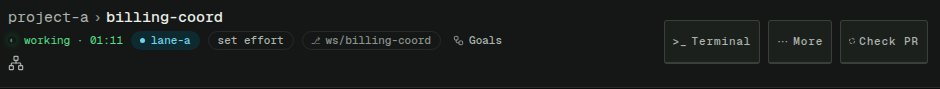
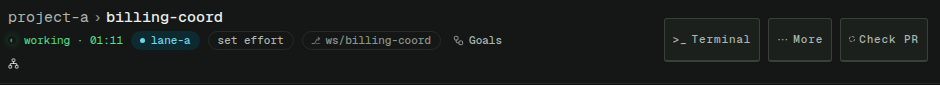
fix(pwa): the header's role badge is the Goals glyph's size on the word's line, and review 2905's other findings (desktop polish C50 fix round)
The session header's role detail gets its own class: the glyph is 1em of --fs-meta, the Goals door's size, on
the line the word took, in the ink the word had, so the header is the height it was in both skins. The
programme kicker's icon is the same RoleBadge with a hover title. The long-branch pin is a literal again with a
second spelt-out case, the stylesheet reader matches a whole selector and property, the badge pair has its rows in
contrast.test.ts (the file's other claimant consented), and the older-server comparison counts the badges per view.
Real-Chrome cases pin the header's size, line and height. The plan section, the task note and the eight header
screenshots follow the tip.

Ledger-Edit: D-8817 defines its deviation in the plan's Task C50 section; this round corrects that section and changes tests, one stylesheet and the note

diff --git a/pwa/browser/role-fact.browser.test.ts b/pwa/browser/role-fact.browser.test.ts
@@ -11,6 +11,7 @@ import { INSTRUMENT, PHOSPHOR, REFINED } from '@ccrc/ui';
 import { resolveChrome } from './harness';
 import { GROUP_MODE_KEY } from '../src/skins/instrument/FleetTable';
 import { openApp, serveDist, sharedDist, type AppFixture, type AppView, type DistServer } from './app';
+import { withRunBinding } from '../test/runBindingFixture';
 
 const THEMES = [PHOSPHOR, 'light'] as const;
 const WIDTHS = [360, 390, 1280, 1470, 1920] as const;
@@ -160,6 +161,110 @@ describe('D-8142, D-8817: the card wears the coordinator badge', () => {
         expect(errors).toEqual([]);
       } finally {
         await close();
+      }
+    });
+  }
+});
+
+// D-8817, review 2905 F1: in the session header the badge is the line's own glyph size and sits where the Goals door's glyph
+// sits, and it adds nothing to the header's height. A coordinator that holds a programme's run, so its header draws the
+// Goals door, is opened at each width in each skin and theme.
+const HEAD_NOW = Date.now();
+const headRow = (id: string, extra: object = {}): object => ({
+  ...row(id, extra), id: `${PROJECT}-${id}`, statusUpdatedAt: HEAD_NOW - 60_000, bucketSince: HEAD_NOW - 60_000, started: true,
+});
+const HEAD_RUN = {
+  id: 301, program: 'billing', programTitle: 'Billing rework', wave: 3, waveOf: 6, project: PROJECT, homeProject: PROJECT,
+  sessionId: `${PROJECT}-head-w1`, workspace: 'head-w1', branch: 'ws/head-w1', state: 'working', kind: 'work', reviews: null,
+  claimedBy: `${PROJECT}-head-coord`, resumed: false, clearedAt: null, openedAt: HEAD_NOW - 3_600_000, dispatchStartedAt: null,
+  dispatchedAt: HEAD_NOW - 3_000_000, closedAt: null, handoffCommit: null, items: { done: 0, total: 0 }, unreadMail: 0,
+  health: { mailOutstanding: 0, mailParked: 0, mailReplayMax: 0, doneRejects: 0, lastRejectCode: null, briefQueued: false,
+    clearError: null, coordKickoffPendingSince: null },
+  childReclaim: null, reviewCap: null, hadChild: false,
+};
+// The coordinator is a workspace session, as the fleet's coordinators are, so Instrument's header draws the role detail on a line of its own.
+const HEAD_SESSIONS = [headRow('head-coord', { ctxPct: 40 }), headRow('head-w1', { role: 'child' })];
+const HEAD_FIXTURE: AppFixture = {
+  api: {
+    '/api/accounts': { accounts: [], projected: null, roster: ROSTER },
+    '/api/projects': { roots: ['/w'], projects: [{ name: PROJECT, workdir: `/w/${PROJECT}` }] },
+    '/api/runs': [HEAD_RUN], '/api/claims': [],
+  },
+  fleetFrames: [{ type: 'fleet', sessions: withRunBinding(HEAD_SESSIONS as never[], [HEAD_RUN] as never[]) }, { type: 'runs', runs: [HEAD_RUN] }],
+};
+
+interface HeadMeasure {
+  readonly badge: { readonly w: number; readonly h: number; readonly cy: number; readonly fontPx: number; readonly cls: string; readonly text: string } | null;
+  readonly goals: { readonly w: number; readonly h: number; readonly cy: number; readonly top: number; readonly bottom: number } | null;
+  readonly box: { readonly cy: number; readonly top: number; readonly bottom: number } | null;
+  readonly headH: number;
+  /** The header's height with the word in the badge's place, as `main` drew it: a plain `.chat-fact` holding `coordinator`. */
+  readonly headHWord: number;
+}
+
+async function measureHead(page: Page): Promise<HeadMeasure> {
+  return page.evaluate(() => {
+    const head = document.querySelector<HTMLElement>('.chat-head')!;
+    const role = head.querySelector<HTMLElement>('.chat-fact-role');
+    const badgeEl = role?.querySelector<HTMLElement>('[role="img"][aria-label="coordinator"]') ?? null;
+    const bsvg = badgeEl?.querySelector('svg')?.getBoundingClientRect();
+    const gsvg = head.querySelector('.chat-coord-goals svg')?.getBoundingClientRect();
+    const rr = role?.getBoundingClientRect();
+    // Everything of the badge and the Goals glyph is read BEFORE the probe below swaps the badge's markup.
+    const badge = badgeEl === null || bsvg === undefined ? null
+      : { w: bsvg.width, h: bsvg.height, cy: bsvg.top + bsvg.height / 2, fontPx: parseFloat(getComputedStyle(badgeEl).fontSize), cls: badgeEl.className, text: badgeEl.textContent ?? '' };
+    const headH = head.getBoundingClientRect().height;
+    let headHWord = headH;
+    if (role !== null) {
+      // The word where the badge is, in the markup `main` drew it in (a plain `.chat-fact`), measured, then put back.
+      const saved = role.innerHTML;
+      role.classList.remove('chat-fact-role');
+      role.innerHTML = 'coordinator';
+      headHWord = head.getBoundingClientRect().height;
+      role.innerHTML = saved;
+      role.classList.add('chat-fact-role');
+    }
+    return {
+      badge,
+      goals: gsvg === undefined ? null : { w: gsvg.width, h: gsvg.height, cy: gsvg.top + gsvg.height / 2, top: gsvg.top, bottom: gsvg.bottom },
+      box: rr === undefined ? null : { cy: rr.top + rr.height / 2, top: rr.top, bottom: rr.bottom },
+      headH, headHWord,
+    };
+  });
+}
+
+describe('D-8817: the header\'s role badge is the line\'s glyph, in place', () => {
+  for (const { skin, theme, width } of MODES.flatMap(({ skin }) => skin === REFINED || skin === INSTRUMENT ? [{ skin }] : [])
+    .filter((m, i, all) => all.findIndex((x) => x.skin === m.skin) === i)
+    .flatMap(({ skin }) => THEMES.flatMap((theme) => [360, 1280].map((width) => ({ skin, theme, width }))))) {
+    it(`${skin}, ${theme}, ${width}px: 1em like the Goals glyph, on its centre line, and no height added`, async () => {
+      const { ctx, page, errors } = await openApp(browser!, { skin, theme, width } as AppView, HEAD_FIXTURE);
+      try {
+        await page.goto(server!.origin + `/s/${PROJECT}-head-coord`);
+        await page.waitForSelector('.chat-head', { timeout: 20_000 });
+        await page.evaluate(async () => { await document.fonts.ready; });
+        const toggle = page.getByRole('button', { name: /details/i });
+        if (await toggle.count() > 0 && (await toggle.first().getAttribute('aria-expanded')) === 'false') await toggle.first().click();
+        await page.waitForSelector('.chat-fact-role', { timeout: 10_000 });
+        await page.waitForTimeout(300);
+        const m = await measureHead(page);
+        expect(m.badge, 'the header draws the badge').not.toBeNull();
+        expect(m.badge!.text, 'no visible word').toBe('');
+        expect(m.badge!.cls, 'the card\'s role rule is not on the header badge').not.toContain('sess-role');
+        expect(m.badge!.w, 'the glyph is 1em wide').toBeCloseTo(m.badge!.fontPx, 0);
+        expect(m.badge!.h, 'the glyph is 1em tall').toBeCloseTo(m.badge!.fontPx, 0);
+        // The Goals door is drawn in every Refined header and in Instrument's desk header; Instrument's phone header has none,
+        // and there the badge is measured against its own line only.
+        if (skin === REFINED || width >= 900) expect(m.goals, 'the Goals door is drawn in this header').not.toBeNull();
+        if (m.goals !== null) expect(m.badge!.w, 'the same size as the Goals door\'s glyph').toBeCloseTo(m.goals.w, 0);
+        // On its neighbour's centre line when they share a row (the box overlaps the Goals glyph's rows), else centred in its own box.
+        const sharesRow = m.goals !== null && m.box !== null && m.goals.top < m.box.bottom && m.goals.bottom > m.box.top;
+        if (sharesRow) expect(Math.abs(m.badge!.cy - m.goals!.cy), 'on the Goals glyph\'s centre line').toBeLessThanOrEqual(2);
+        else expect(Math.abs(m.badge!.cy - m.box!.cy), 'centred in its own line box').toBeLessThanOrEqual(1);
+        expect(Math.abs(m.headH - m.headHWord), 'the header is the height it was with the word in the badge\'s place').toBeLessThanOrEqual(0.5);
+        expect(errors).toEqual([]);
+      } finally {
+        await ctx.close();
       }
     });
   }

diff --git a/pwa/test/coordinator-badge.test.tsx b/pwa/test/coordinator-badge.test.tsx
@@ -72,6 +72,7 @@ describe('the programme box header (note 1)', () => {
     const kicker = drawBox().querySelector('.pg-kicker')!;
     const img = kicker.querySelector('.pg-ico[role="img"]');
     expect(img?.getAttribute('aria-label')).toBe('Programme');
+    expect(img?.getAttribute('title'), 'a mouse user still gets the word on hover').toBe('Programme');
     // The programme page's kicker has no icon beside it, so it stays the page's one cue.
     expect(readFileSync(path.join(__dirname, '../src/ledgers/ProgrammeScreen.tsx'), 'utf8')).toContain('<span className="pv-kicker">Programme</span>');
   });
@@ -123,24 +124,55 @@ describe('the coordinator badge (note 2)', () => {
   });
 });
 
-describe('the badge colour (note 2, the contrast gates)', () => {
-  const read = (f: string): string => readFileSync(path.join(__dirname, '../src/fleet', f), 'utf8');
-  /** The `color` a rule of exactly this selector declares, read by its text, so no selector is turned into a pattern. */
-  const decl = (css: string, selector: string): string | null => {
-    const at = css.indexOf(`${selector} {`);
-    if (at < 0) return null;
-    const body = css.slice(at + selector.length + 2, css.indexOf('}', at));
-    return /color:\s*([^;]+);/.exec(body)?.[1] ?? null;
+describe('the badge stylesheet rules (note 2; the contrast gates measure the pair in contrast.test.ts)', () => {
+  const read = (...f: string[]): string => readFileSync(path.join(__dirname, '../src', ...f), 'utf8');
+  /** Every value the stylesheet gives `prop` for a rule whose selector list holds exactly `selector`: comments are cut first,
+   *  a rule is read whole, a selector is compared whole (never as a substring of a longer one) and a property by its own name
+   *  (never `background-color` for `color`), so no selector becomes a pattern. */
+  const values = (css: string, selector: string, prop: string): string[] => {
+    const out: string[] = [];
+    for (const m of css.replace(/\/\*[\s\S]*?\*\//g, '').matchAll(/([^{}]+)\{([^{}]*)\}/g)) {
+      if (!m[1]!.split(',').some((sel) => sel.trim() === selector)) continue;
+      for (const decl of m[2]!.split(';')) {
+        const at = decl.indexOf(':');
+        if (at > 0 && decl.slice(0, at).trim() === prop) out.push(decl.slice(at + 1).trim());
+      }
+    }
+    return out;
   };
 
+  it('the reader reads a whole selector and a whole property (its own controls)', () => {
+    const css = '/* .a .b { color: red; } */ .x .a .b { color: blue; } .a .b, .c { background-color: green; color: gold; }';
+    expect(values(css, '.a .b', 'color')).toEqual(['gold']);
+    expect(values(css, '.x .a .b', 'color')).toEqual(['blue']);
+    expect(values(css, '.a .b', 'background-color')).toEqual(['green']);
+    expect(values(css, '.c', 'color')).toEqual(['gold']);
+    expect(values(css, '.missing', 'color')).toEqual([]);
+  });
+
   it('is the quiet secondary ink outside a programme box, a gated token the row gate measures', () => {
-    const css = read('fleet.css');
-    expect(/\.sess-role\s*\{[^}]*color:\s*var\(--ink-secondary\);/.test(css)).toBe(true);
+    expect(values(read('fleet', 'fleet.css'), '.sess-role', 'color')).toEqual(['var(--ink-secondary)']);
   });
 
   for (const hue of ['cyan', 'violet', 'magenta', 'blue']) {
     it(`is the ${hue} programme's hue inside its box, on the surface the gates measure the hue on`, () => {
-      expect(decl(read('programmeBox.css'), `.pg-box[data-hue='${hue}'] .pg-coord .sess-role`)).toBe(`var(--prog-${hue})`);
+      expect(values(read('fleet', 'programmeBox.css'), `.pg-box[data-hue='${hue}'] .pg-coord .sess-role`, 'color')).toEqual([`var(--prog-${hue})`]);
     });
   }
+
+  it('the header badge is the line\'s glyph size, 1em as the Goals door\'s glyph is, and the card\'s role rule does not reach it', () => {
+    const chat = read('session', 'chat.css');
+    expect(values(chat, '.chat-fact-role svg', 'width')).toEqual(['1em']);
+    expect(values(chat, '.chat-fact-role svg', 'height')).toEqual(['1em']);
+    expect(values(chat, '.chat-coord-goals svg', 'width')).toEqual(['1em']);
+    expect(values(chat, '.chat-fact-role [role="img"]', 'font-size')).toEqual(['var(--fs-meta)']);
+    expect(values(chat, '.chat-fact-role', 'min-height'), 'the detail keeps the line the word took').toEqual(['1lh']);
+    const session = lead();
+    render(<SessionHeaderHost {...headerProps({ session, status: session.status, facts: sessionFacts({ session, now: NOW }) })} />);
+    const toggle = screen.queryByRole('button', { name: /details/i });
+    if (toggle !== null && toggle.getAttribute('aria-expanded') === 'false') fireEvent.click(toggle);
+    const badge = document.querySelector('.chat-head .chat-fact-role [role="img"][aria-label="coordinator"]');
+    expect(badge, 'the details draw the badge in the role detail').not.toBeNull();
+    expect(badge!.classList.contains('sess-role'), 'the card\'s role rule (flex-start, the quiet ink) is not on the header badge').toBe(false);
+  });
 });

diff --git a/pwa/test/card-header-facts.test.tsx b/pwa/test/card-header-facts.test.tsx
@@ -154,18 +154,29 @@ describe('the model (D-5545)', () => {
     expect(cardFacts(sessionFacts({ session: s({ role: null as never }), now: NOW })).role).toBeNull();
   });
 
-  it('a coordinator with a long branch keeps both whole on the card (D-8142)', () => {
+  it('a coordinator with a long branch keeps both whole on the card (D-8142, D-8817)', () => {
     const branch = 'feat/a-long-descriptive-branch-name-for-the-sidebar';
     const f = sessionFacts({ session: s({ workspace: 'bright-lake', name: 'bright-lake', role: 'coordinator', branch }), now: NOW });
     const c = cardFacts(f);
     expect(c.role?.text).toBe('coordinator');
-    // D-8817: the role cell is the badge's width (`ROLE_CELL_CHARS`), no longer the word's, so the branch keeps more.
-    expect(c.context).toMatchObject({ key: 'branch', text: branch, short: shortenByToken(branch, NAME_BUDGET - ROLE_CELL_CHARS) });
+    // As at main, the shortened branch spelt out; the budget is the badge's cell (`ROLE_CELL_CHARS`), no longer the word's.
+    expect(c.context).toMatchObject({ key: 'branch', text: branch, short: 'feat/a-long…' });
     expect(c.context!.short!.length + ROLE_CELL_CHARS).toBeLessThanOrEqual(NAME_BUDGET);
-    expect(ROLE_CELL_CHARS, 'a smaller cell than the word and its separator took').toBeLessThan(COORDINATOR_WORD.length + ' · '.length);
     // A child, and a coordinator with no role cell to make room for, keep the full budget.
     const kid = cardFacts(sessionFacts({ session: s({ workspace: 'bright-lake', name: 'bright-lake', role: 'child', branch }), now: NOW }));
     expect(kid.context?.short).toBe(shortenByToken(branch, NAME_BUDGET));
+  });
+
+  it('the role cell is the badge\'s width: a branch the word\'s 14 characters cut shorter is kept longer beside the badge (D-8817)', () => {
+    // At main (budget 28 - 14 = 14) this branch shortened to `feat/garden…`; at the badge's cell (28 - 6 = 22) it keeps
+    // another token, and the child's full budget (28) keeps one more still. Each is spelt out, so a wrong cell width reds here.
+    const branch = 'feat/garden-stone-silver-harbor-morning-cedars-quiet-river-run';
+    const lead = cardFacts(sessionFacts({ session: s({ workspace: 'bright-lake', name: 'bright-lake', role: 'coordinator', branch }), now: NOW }));
+    expect(lead.context).toMatchObject({ key: 'branch', short: 'feat/garden-stone…' });
+    expect(lead.context!.short!.length + ROLE_CELL_CHARS).toBeLessThanOrEqual(NAME_BUDGET);
+    const kid = cardFacts(sessionFacts({ session: s({ workspace: 'bright-lake', name: 'bright-lake', role: 'child', branch }), now: NOW }));
+    expect(kid.context?.short).toBe('feat/garden-stone-silver…');
+    expect(lead.context!.short).not.toBe(kid.context!.short);
   });
 
   it('a child names its programme and wave on the card; the header keeps the verbatim hold and the coordinator', () => {

diff --git a/pwa/test/older-server-render.test.tsx b/pwa/test/older-server-render.test.tsx
@@ -45,7 +45,7 @@ const ROLE_ONLY_LINE = new RegExp(`<span class="sess-meta sess-meta--context">${
 /** The programme box's kicker (D-8817): the base drew the icon bare with the class `pg-ico`, then the word "Programme" and a
  *  middot; the head draws the icon inside an image named "Programme" and neither the word nor the middot. Both sides are
  *  brought to one shape: the head's wrapper is unwrapped, the base's word, middot and icon class are removed. */
-const PROGRAMME_ICON = /<span class="pg-ico" role="img" aria-label="Programme">(<svg[\s\S]*?<\/svg>)<\/span>/g;
+const PROGRAMME_ICON = /<span role="img" aria-label="Programme" title="Programme" class="[^"]*\bpg-ico\b[^"]*">(<svg[\s\S]*?<\/svg>)<\/span>/g;
 const BASE_PROGRAMME_WORD = '<span class="pg-word">Programme</span><span class="pg-sep" aria-hidden="true">·</span>';
 const BASE_KICKER_ICON = 'class="block flex-none pg-ico"';
 /** The programme box's title door (PL10, D26 amended), round the title span the base drew. */
@@ -97,6 +97,13 @@ describe('an older server: no delegation frame, the base\'s fleet (delegation br
       const old = html.split(MARKED).join(LIST).split(BACKUP_SLOT).join('').replace(TITLE_DOOR, '$1').replace(PROJECTS_HEAD, '')
         .replace(FACE_MARK, '').replace(FACE_GROUP, '$1');
       expect(baseline.views[view].match(ROLE_CELL), `${view}: the base drew no role cell`).toBeNull();
+      // The badge is stripped below as a declared head-only addition, so it is counted FIRST: the world has two coordinators
+      // (`coord`, `coord-e`) and each view draws exactly two badges, each on one of their rows, so a badge drawn on a worker's
+      // row, or on a row with no `role`, turns this red instead of being stripped with the rest.
+      expect((html.match(ROLE_CELL) ?? []).length, `${view}: one role badge per coordinator row, none elsewhere`).toBe(2);
+      const badged = html.split('<div class="sess-line"').filter((row) => new RegExp(ROLE_CELL.source).test(row))
+        .map((row) => /aria-label="([^"]*)"><span aria-hidden="true">/.exec(row.slice(row.indexOf('sess-label')))?.[1]);
+      expect(badged.sort(), `${view}: the badged rows are the coordinators`).toEqual(['coord', 'coord-e']);
       expect(old, `${view}: no other delegation attribute`).not.toContain('data-delegation');
       for (const word of ['inferred', 'Unowned work', 'Offline coordinator', 'delegated']) {
         expect(html, `${view}: no "${word}"`).not.toContain(word);

diff --git a/pwa/test/role-census.test.ts b/pwa/test/role-census.test.ts
@@ -168,12 +168,12 @@ const NOT_ROLE_BEARING: Readonly<Record<string, string>> = {
   'confirm.tsx': "QuickConfirm's consequence is a sentence of copy, not a control's label; its buttons are Button",
   'control-row.tsx': 'a self-grounded mono status line whose shape the shape census owns; outside Task 14\'s mapping',
   'count-badge.tsx': 'a count on the 11px floor, sized against the glyph it badges',
-  'role-badge.tsx': 'a 16px icon with an accessible name and no text; its size is the icon\'s own, so no type or row role applies (desktop polish C50)',
   'cover-screen.tsx': 'a full-viewport cover: it sets no type and no row height of its own',
   'icon.tsx': 'sized by its caller in em or by prop, so it follows the type around it',
   'limit-bar.tsx': 'draws through Meter; its label is on the 11px floor, below every Refined role',
   'meter.tsx': "its height is the meter's own token, --meter-h, which skins.css already varies",
   'popover.tsx': 'a panel around content its caller passes in: it sets no type and no row height of its own (D-5934)',
+  'role-badge.tsx': 'a 16px icon with an accessible name and no text; its size is the icon\'s own, so no type or row role applies (desktop polish C50)',
   'skeleton.tsx': 'a placeholder sized by its caller',
   'status-dot.tsx': 'a lamp: part of the identity core, fixed across skins',
   'text-link.tsx': 'an inline link inside a sentence: it inherits the type and colour of the text around it, and has no tap floor (the WCAG 2.5.8 in-text exemption)',
@@ -284,6 +284,7 @@ const APP_ROLE_RULES: Readonly<Record<string, Readonly<Record<string, TypeRole>>
   },
   'chat.css': {
     '.chat-coord': META,
+    '.chat-fact-role [role="img"]': META, // the header's role badge: the Goals glyph's size (desktop polish C50)
     '.metachip-glyph': META,
     '.pr-lede': UI,
     '.pr-facts': META,

diff --git a/pwa/src/session/SessionDetails.tsx b/pwa/src/session/SessionDetails.tsx
@@ -29,8 +29,8 @@ import { coordinationLine, type Coordination } from '../fleet/fleetTree';
 import { coordinationClauses } from './sessionHeaderView';
 
 /** A plain detail — one fact in words, its tooltip when it has one. */
-function Detail({ children, title }: { children: ReactNode; title?: string }): ReactNode {
-  return <span className="chat-fact" title={title}>{children}</span>;
+function Detail({ children, title, className }: { children: ReactNode; title?: string; className?: string }): ReactNode {
+  return <span className={className === undefined ? 'chat-fact' : `chat-fact ${className}`} title={title}>{children}</span>;
 }
 
 /** One clause of the coordination row that opens somewhere — the run board, or the coordinator's session. */
@@ -144,7 +144,7 @@ export function SessionDetails({ facts, coordination }: {
       {/* A main checkout's heading is its project; the name the card leads with is here. */}
       {s.workspace === null && s.name !== null && <Detail title="this session's name">{s.name}</Detail>}
       {runId !== null && <Detail title="the run this wave belongs to — the run board names it">{`run #${runId}`}</Detail>}
-      {facts.coordinatorRole && <Detail><RoleBadge {...COORDINATOR_BADGE} className="sess-role" /></Detail>}
+      {facts.coordinatorRole && <Detail className="chat-fact-role"><RoleBadge {...COORDINATOR_BADGE} /></Detail>}
       {s.held !== null && ctx?.key === 'programme' && <Detail title="the hold, verbatim">{heldWords(s.held)}</Detail>}
       {s.pr?.number != null && <Detail>{`PR #${s.pr.number}`}</Detail>}
       {facts.lane.away && facts.offPool === null && facts.lane.label !== undefined && <Detail>{facts.lane.label}</Detail>}

diff --git a/pwa/src/fleet/sessionFacts.ts b/pwa/src/fleet/sessionFacts.ts
@@ -253,12 +253,14 @@ export const COORDINATOR_ROLE_TITLE = 'this session is its project\'s coordinato
  *  hover title `RoleBadge` (`@ccrc/ui`) draws, which the card's role cell and the header's role detail both spread. */
 export const COORDINATOR_BADGE = { icon: 'network', label: COORDINATOR_WORD, title: COORDINATOR_ROLE_TITLE } as const;
 
-/** THE role fact: the card's (D-8142) and the header's one object, so the name and its title have one home. */
+/** The role fact: the card's (D-8142) and the header's one object. It is the name and title the badge carries (the same two
+ *  constants as `COORDINATOR_BADGE`), as a `Fact`, for the one place that asks whether a card has a role cell. */
 const ROLE_FACT: Fact = { key: 'role', text: COORDINATOR_WORD, title: COORDINATOR_ROLE_TITLE };
 
 /** The width the card's role cell takes on the context line, in characters of the meta line's mono face (D-8142, D-8817):
- *  the badge's 16px icon, about three characters at `--fs-2xs`, and its middot separator. A branch beside it shortens to
- *  `NAME_BUDGET` less this, so the one line holds both whole. */
+ *  the badge's 16px icon, 2.2 characters at the meta line's `--fs-xs` (12px), rounded up to 3, and its middot separator. A
+ *  branch beside it shortens to `NAME_BUDGET` less this, so the one line holds both whole. The cell was 11 characters and
+ *  the separator (14) when it drew the word. */
 export const ROLE_CELL_CHARS = 3 + ' · '.length;
 
 /** D-8771: the words `backgroundWords` puts after its count (`in background`), TAKEN FROM ITS OWN OUTPUT, so the words are

diff --git a/pwa/src/fleet/ProgrammeBox.tsx b/pwa/src/fleet/ProgrammeBox.tsx
@@ -21,7 +21,7 @@
 // memo (C9, D-6441) holds: the card never re-renders for the time.
 import { Fragment } from 'react';
 import type { ReactNode } from 'react';
-import { BareRow, Door, Icon, TextLink, useNow } from '@ccrc/ui';
+import { BareRow, Door, RoleBadge, TextLink, useNow } from '@ccrc/ui';
 import type { RunSummary } from '../../../shared/api';
 import { SpecLink } from '../ledgers/GoalsPanel';
 import { programmeSpecHref } from '../ledgers/ledgerLinks';
@@ -125,8 +125,9 @@ export function ProgrammeBox({ view, state, tray, drawRow, drawAbroad, hueOf, on
   return (
     <section className="pg-box" data-hue={view.lead.hue} data-state={state}>
       <div className="pg-kicker" data-hue={view.lead.hue}>
-        {/* D-8817: the icon, the hue and the waves bar say programme, so the word is not drawn; the icon keeps its name. */}
-        <span className="pg-ico" role="img" aria-label="Programme"><Icon name="workflow" /></span>
+        {/* D-8817: the icon, the hue and the waves bar say programme, so the word is not drawn; the icon keeps its name and a
+            hover title (the badge primitive the coordinator's mark uses, so a mouse user still gets the word on hover). */}
+        <RoleBadge icon="workflow" label="Programme" title="Programme" className="pg-ico" />
         <Title slug={view.lead.slug} title={view.lead.title} />
         <WaitingChip slug={view.lead.slug} title={view.lead.title} />
         <BoxSpec slug={view.lead.slug} title={view.lead.title} />

diff --git a/pwa/src/session/chat.css b/pwa/src/session/chat.css
@@ -107,6 +107,14 @@
   .chat-facts .sess-subagents { min-height: var(--tap-min); min-width: var(--tap-min); }
 }
 .chat-fact { font-family: var(--family-mono); overflow-wrap: break-word; min-width: 0; }
+/* D-8817: the role badge in the details, where the word was drawn in this row's inherited ink. The glyph is the Goals door's size:
+   `1em` of `--fs-meta`, as that door's glyph is (`.chat-coord-goals svg`, below; its `Door` glyph span is `text-meta`). The role
+   detail keeps the line the word took (`min-height: 1lh` of its own inherited line), so the header is the height it was with the
+   word, in both skins, and the glyph is centred on that line. The card's `.sess-role` rule (`align-self: flex-start`, the quiet
+   ink) is not on it. */
+.chat-fact-role { display: flex; align-items: center; min-height: 1lh; }
+.chat-fact-role [role="img"] { font-size: var(--fs-meta); }
+.chat-fact-role svg { width: 1em; height: 1em; }
 .chat-facts .sess-subagent-list { flex-basis: 100%; }
 /* The header's list of recorded entries: a full-width flex item of .chat-facts, whose automatic minimum would be its
    min-content width. Its rows' words are white-space: nowrap (.proj-work-parts), so without min-width: 0 one long

diff --git a/pwa/test/contrast.test.ts b/pwa/test/contrast.test.ts
@@ -2318,12 +2318,14 @@ describe('the programme box\'s hues (Task G2)', () => {
     }
   });
 
-  it('measures the kicker on the tint and the workers\' slugs on the surface, through the stylesheet, in every palette', () => {
+  it('measures the kicker on the tint, the workers\' slugs and the coordinator\'s badge on the surface, through the stylesheet, in every palette', () => {
     for (const h of PROG_HUES) {
       for (const [key, pair] of [
         [`.pg-kicker [as .pg-kicker[data-hue='${h}']]`, 'var(--pg) on var(--pg-tint)'],
         [`.pg-tray [data-hue='${h}'] .sess-pw-prog [in .pg-tray]`, `var(--prog-${h}) on var(--bg-surface)`],
         [`.pg-elsewhere [data-hue='${h}'] .sess-pw-prog [in .pg-elsewhere]`, `var(--prog-${h}) on var(--bg-surface)`],
+        // D-8817: the coordinator's badge in its programme's hue, on the coordinator band's ground, the card's surface.
+        [`.pg-box[data-hue='${h}'] .pg-coord .sess-role [in .pg-coord]`, `var(--prog-${h}) on var(--bg-surface)`],
       ] as const) {
         const rows = rowsFor(key);
         expect(rows, key).toHaveLength(THEME_COUNT);

diff --git a/pwa/test/session-line.test.tsx b/pwa/test/session-line.test.tsx
@@ -1493,8 +1493,9 @@ describe('whose code a row works on (D-5527)', () => {
 });
 
 // D-5545: on nearly every operator-made row the badge said the same word, so it moved to the session header's
-// details, where it names the role of the one session being read. D-8142 puts the word back on the CARD as one
-// plain cell, first on the context line (`card-header-facts.test.tsx` pins its place); it is not a badge.
+// details, where it names the role of the one session being read. D-8142 put the word back on the CARD as one
+// plain cell, first on the context line (`card-header-facts.test.tsx` pins its place); D-8817 draws that cell, and the
+// header's, as the role badge (`RoleBadge`), the word being its accessible name and never visible text.
 describe('the coordinator badge (D-5301)', () => {
   const role = (): HTMLElement | null =>
     [...document.querySelectorAll<HTMLElement>('.chat-fact')].find((e) => e.querySelector('[role="img"][aria-label="coordinator"]') !== null) ?? null;

diff --git a/ui/src/primitives/role-badge.tsx b/ui/src/primitives/role-badge.tsx
@@ -19,7 +19,8 @@ import type { ReactNode } from 'react';
 import { cn } from '../lib/cn';
 import { Icon, type IconName } from './icon';
 
-/** A block-level flex box the icon's own size, never shrunk, so the line it sits on keeps its height. */
+/** An inline flex box round the icon, never shrunk. The icon is 16px unless the caller's stylesheet sizes its `svg` (the session
+ *  header sets `1em`), so the line it sits on keeps its own height. */
 export const ROLE_BADGE = 'inline-flex flex-none items-center justify-center';
 
 export interface RoleBadgeProps {
